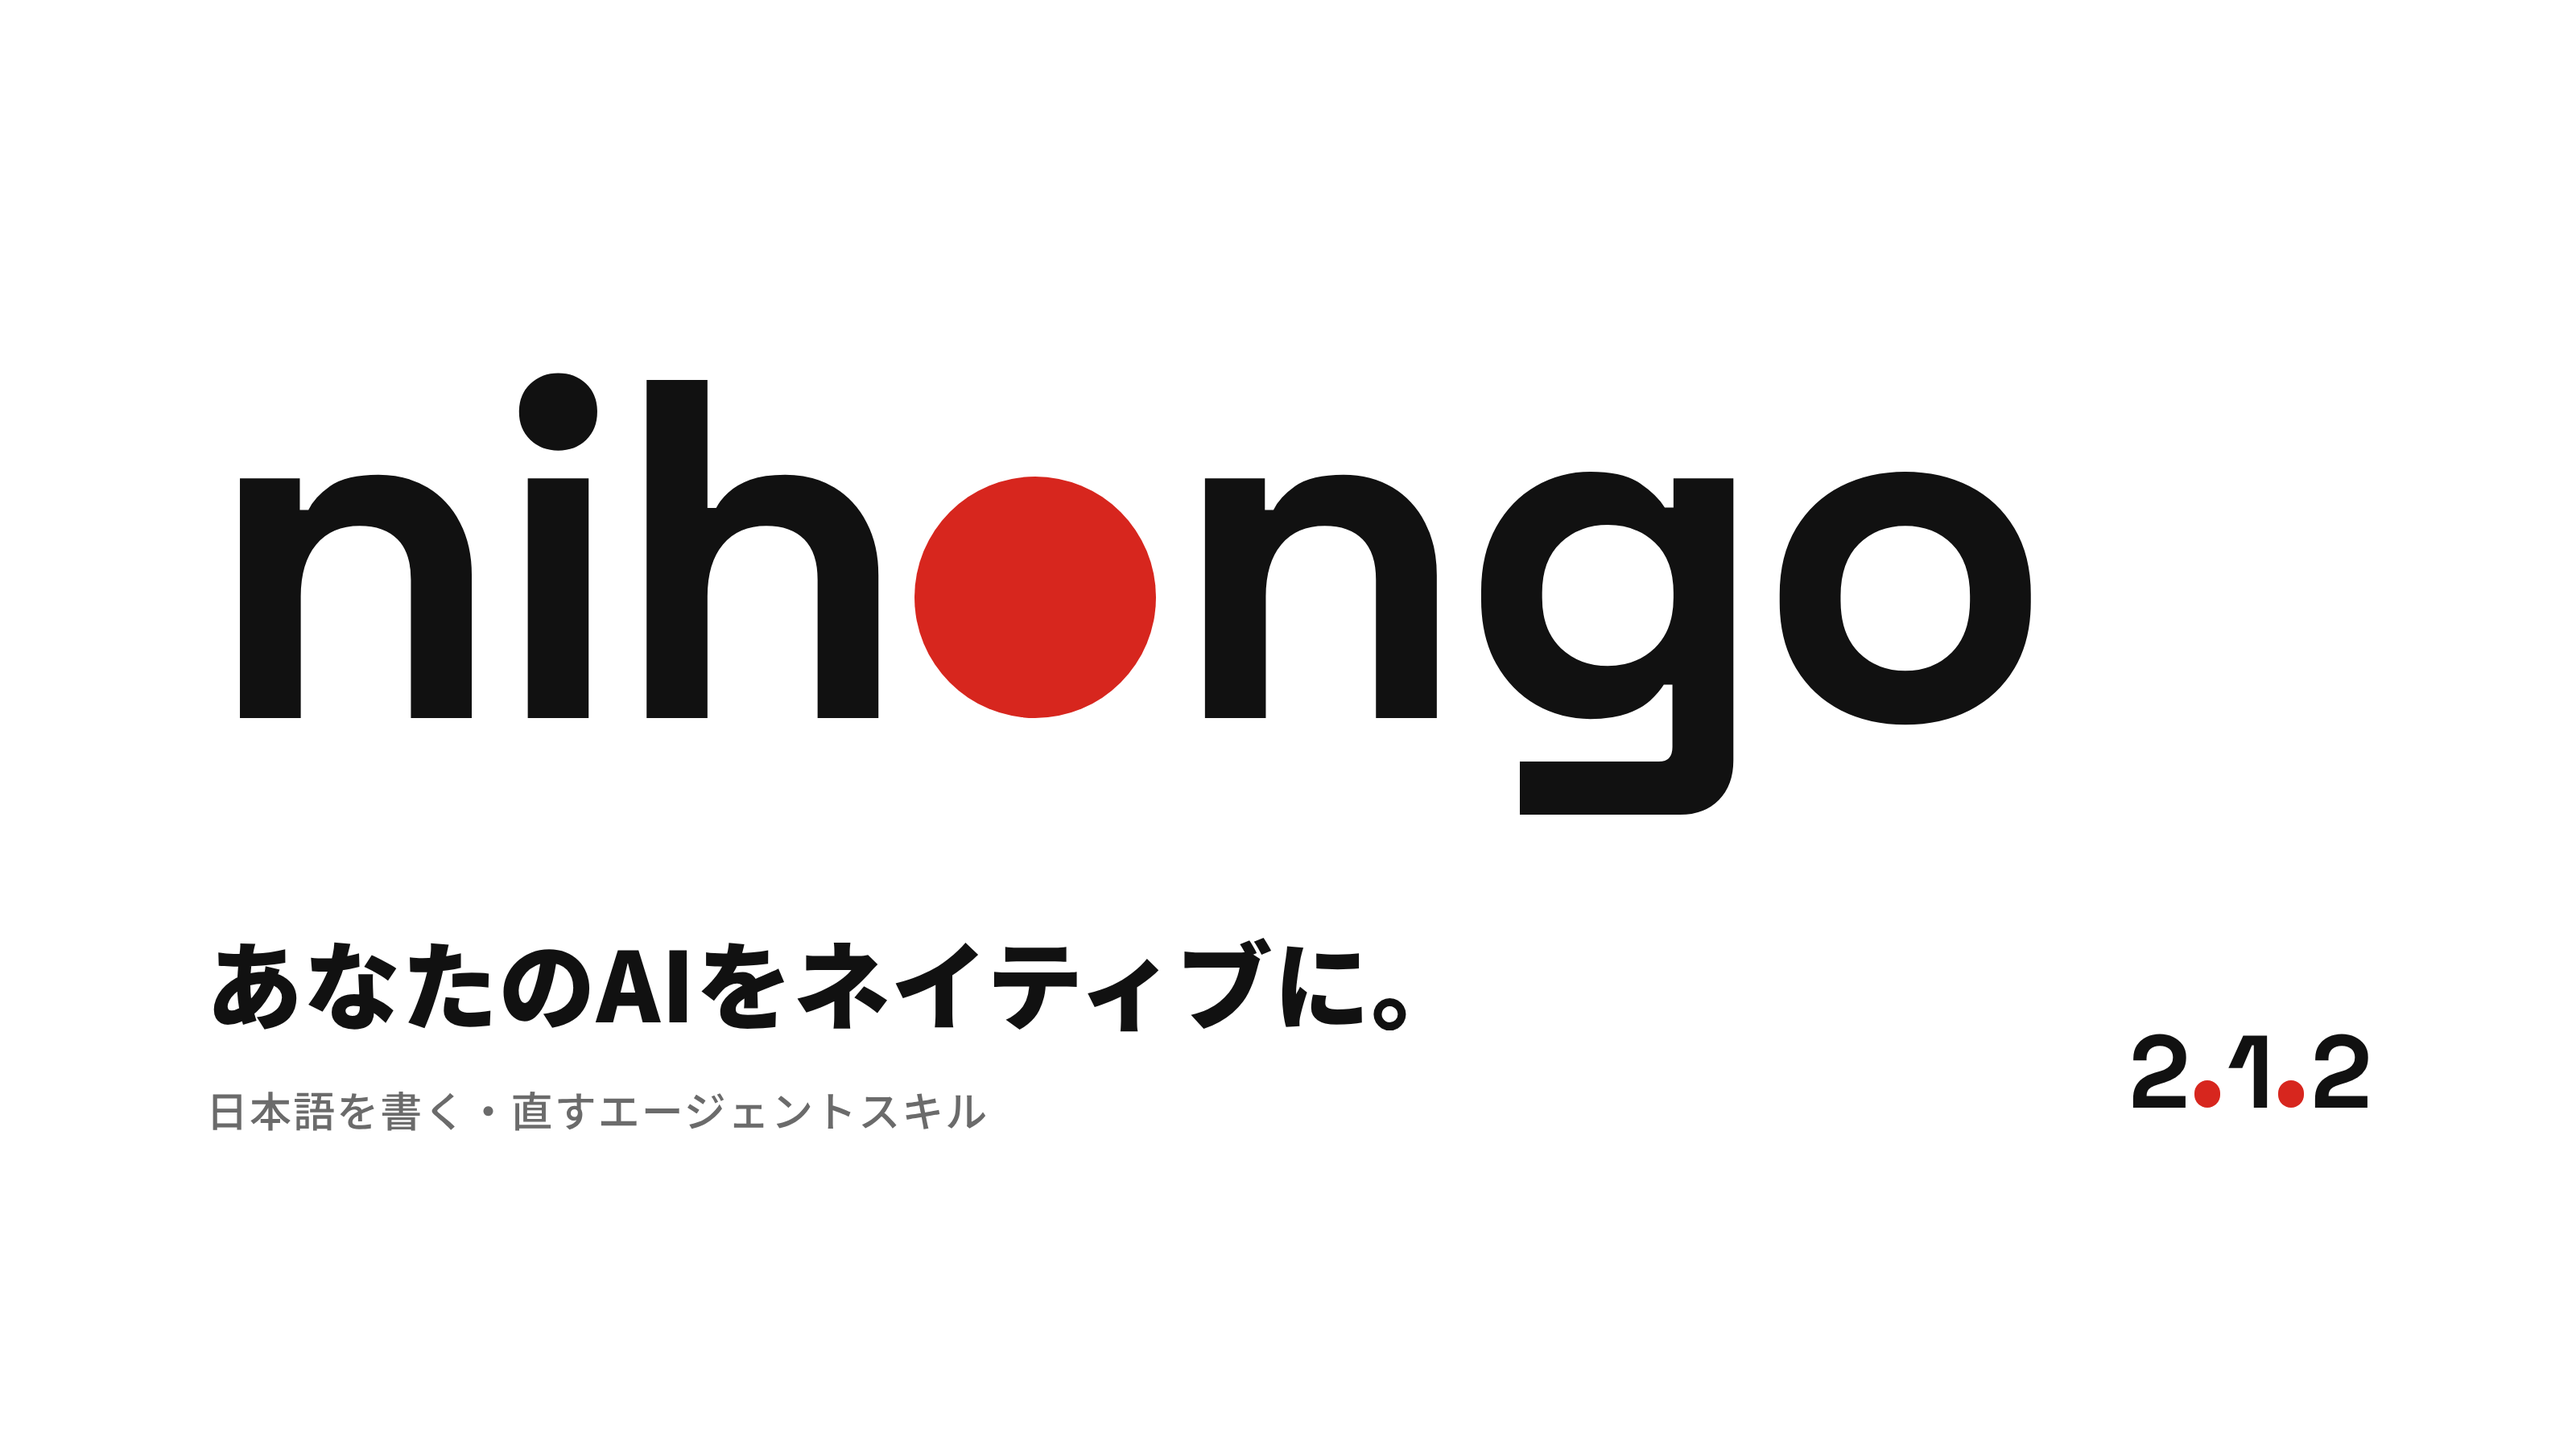
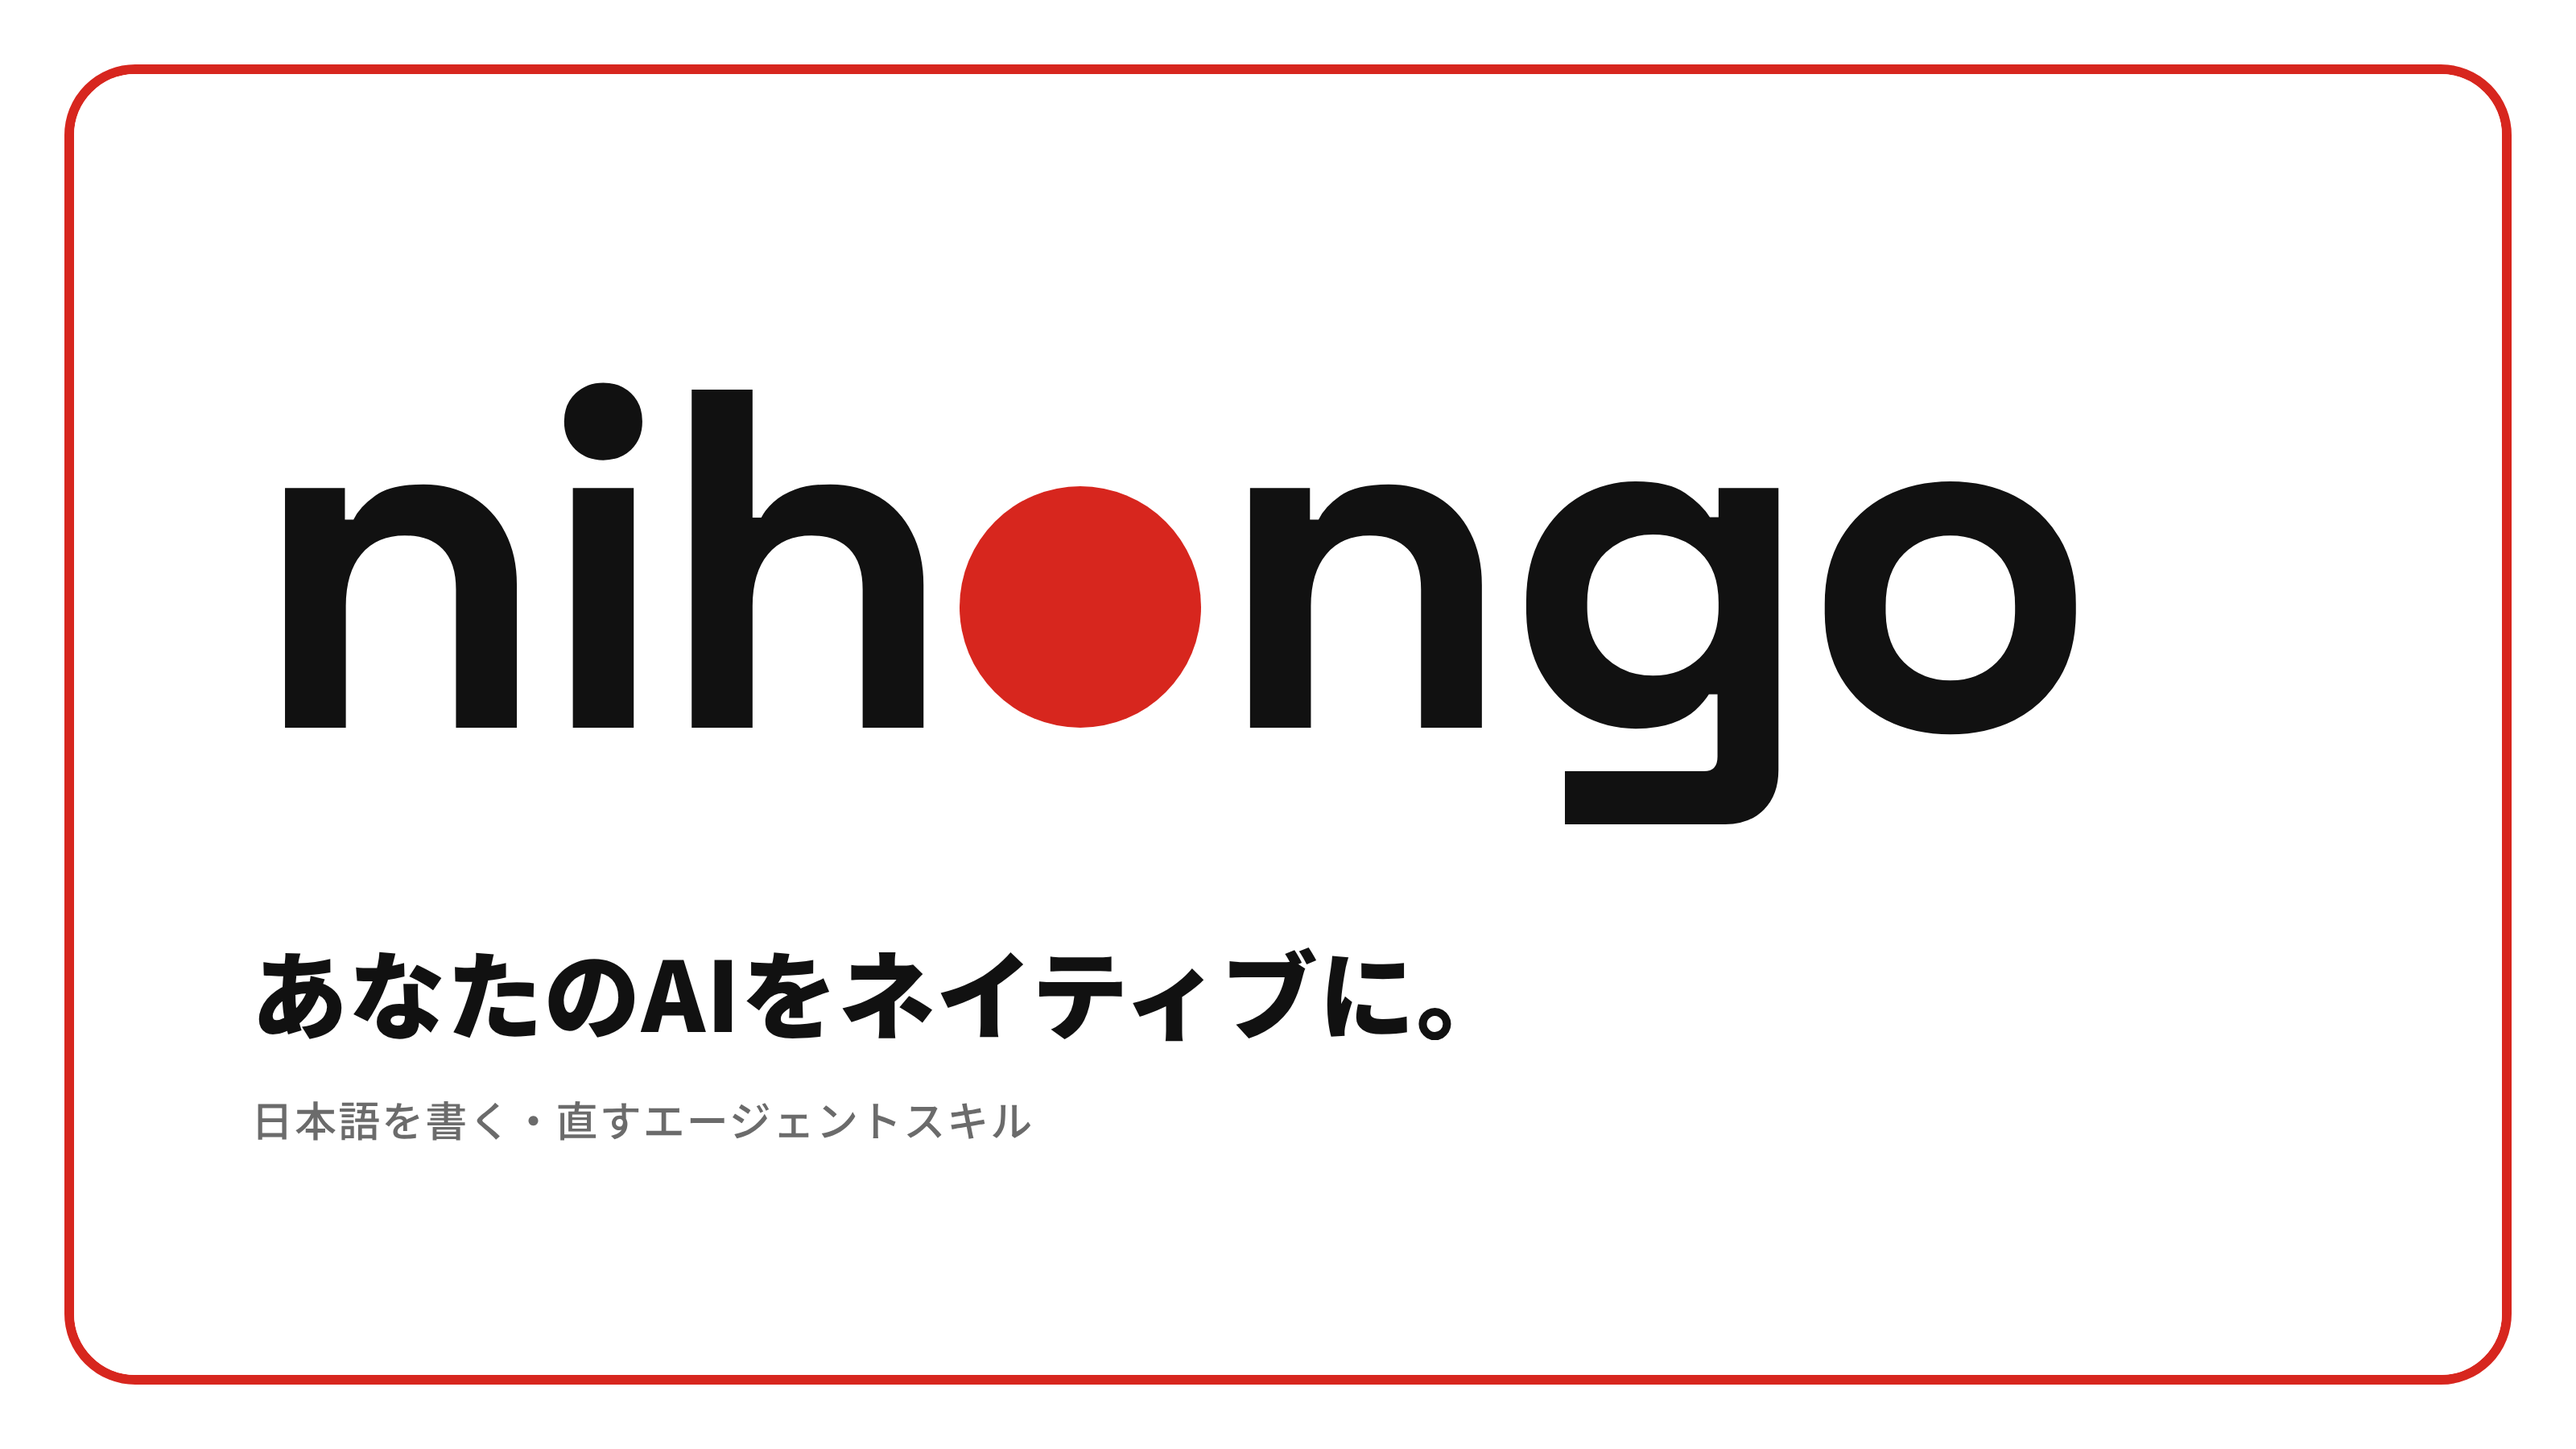
READMEを直し、バッジと赤枠のトップ画像を入れる
Claude-Session: https://claude.ai/code/session_01WQX8ztkByLoV51NXWaRijL

diff --git a/README.md b/README.md
@@ -2,18 +2,24 @@
 
 # nihongo
 
+[![version](https://img.shields.io/badge/version-2.1.2-D7261E)](CHANGELOG.md)
+[![stars](https://img.shields.io/github/stars/AnIT012/nihongo?style=flat&color=111111)](https://github.com/AnIT012/nihongo/stargazers)
+[![license](https://img.shields.io/badge/license-MIT-111111)](LICENSE)
+[![works with](https://img.shields.io/badge/works_with-Claude_%7C_ChatGPT_%7C_Claude_Code_%7C_Codex-555555)](#インストール)
+
 実はこのREADME、nihongoを入れたAIが全部書いています。人の手では1文字も直していないので、AIっぽいと感じた所があったらIssueで教えてください！
 
-nihongoは、AIが書く日本語を、その場で人が書く文に近づけるためのエージェントスキルです。メール、お知らせ、Slack、README、ES、意見文などを新しく書く時にも、AIが書いた文を直す時にも使えます。
+nihongoは、AIが書く日本語を人が書く文に近づけるエージェントスキルです。書いた文を後から直すだけでなく、メール、お知らせ、Slack、README、ES、意見文などを書く時から使えます。
 
 ## 特徴
 
-相手との距離に合わない敬語や中身のない前置き、1文ずつは正しいのに続けて読むと細切れになる文章など、AIの日本語の違和感は決まった言い回し以外の所からも出てきます。nihongoは禁止語を並べる代わりに、読み手・目的・載せる場所・書き手から、その場にいる人ならどう書くかを判断する手順をまとめています。
+AIの日本語の違和感は、決まった言い回しだけから出るわけではありません。相手との距離に合わない敬語や中身のない前置き、1文ずつは正しいのに続けて読むと細切れになる文章もその一つです。nihongoは禁止語を並べる代わりに、読み手・目的・載せる場所・書き手から、その場にいる人ならどう書くかを判断する手順をまとめています。
 
 - お知らせ・お詫び・目上への文は硬い言葉と定型の敬語を残し、くだけた言い方に崩すのは友達とのやりとりだけにする
 - 中身のない言葉（活用、実現、本質的）は普通の動詞に戻し、宣伝文の勢いや本人の気持ちの言葉は残す
 - 文を分けるかつなげるかを、句点の数ではなく、情報のまとまりと流れで決める
 - 自然な文は無理に直さず、数字・日付・条件・誰が何をするかは変えない
+- 依頼に無い感想・理由・約束は書き足さず、中身が分からない時は聞き返す
 
 ## 使用例
 
@@ -56,7 +62,7 @@ nihongoには、普段の返事に毎回読み込む短いLiteと、詳しい手
 |---|---|---|
 | ファイル | `nihongo/ALWAYS.md`（約1,500字） | `nihongo/SKILL.md` と `references/` |
 | 使う場面 | 普段の返事、雑談、短い質問まで毎回 | メール、お知らせ、ES、資料、README、UIの文言 |
-| 読み込まれ方 | 設定に入れておけば、毎回読み込まれる | Liteから自動で読みにいく。名前を出して呼ぶこともできる |
+| 読み込まれ方 | 設定に入れておけば、毎回読み込まれる | 人に出す文章を書く時に、Liteの指示で自動で読まれる。名前を出して呼ぶこともできる |
 | 増えるトークン（目安） | 約1,100 | 約9,000 |
 
 Liteを入れておくと、普段はLiteだけを使い、人に出す文章を書く時だけFullまで読みます。トークンを抑えながら、大事な文章では詳しい手順を使えます。
@@ -108,11 +114,11 @@ Pythonが使える環境では、推敲の最後に `nihongo/scripts/` のスク
 
 | ファイル | 内容 |
 |---|---|
-| `nihongo/ALWAYS.md` | Lite。普段の返事に毎回当てる原則と、Fullを読みにいく場面 |
+| `nihongo/ALWAYS.md` | Lite。普段の返事で毎回守る原則と、Fullを読む場面 |
 | `nihongo/SKILL.md` | Full。全体の原則、判断の優先順位、生成と推敲の進め方、句点と文章全体のリズム |
 | `nihongo/references/` | 場面ごとの資料（会話、LINE・Slack、メール、お知らせ、UI文言、スライド、技術文書、ES、エッセイ、スピーチ、翻訳、敬語、表記、仕上げの点検など） |
 | `nihongo/references/personal-profile.md` | 自分の文体を書き込むひな形 |
-| `nihongo/scripts/` | 推敲の前後を比べて、数値・否定・確かさ・強さなどが変わった文だけを原文に戻すスクリプト（標準ライブラリだけで動く） |
+| `nihongo/scripts/` | 推敲の前後を比べて、数値・否定・確かさ・強さが変わった文や、担当・時刻が入れ替わった文だけを原文に戻すスクリプト（標準ライブラリだけで動く） |
 | `tests/` | スクリプトの回帰テスト（`python3 tests/test_scripts.py`） |
 | `evaluations/` | 検証の記録と、課題の原文 |
 | `CHANGELOG.md` | 変更履歴 |
@@ -156,7 +162,7 @@ Pythonが使える環境では、推敲の最後に `nihongo/scripts/` のスク
 
 ## 注意事項
 
-nihongoはプログラムを含まず、Markdownの文章だけでできています。AIが手順を読んで判断する作りなので、同じ依頼でも毎回まったく同じ文になるとは限りません。
+nihongoの本体はMarkdownの文章で、AIが手順を読んで判断する作りです。そのため、同じ依頼でも毎回まったく同じ文になるとは限りません。`scripts/` のPythonは、推敲の後に意味の崩れを確かめるためだけに使います。
 
 内容の正しさまでは保証しないので、数字や日付、固有名詞は送る前に自分の目で確認してください。
 
